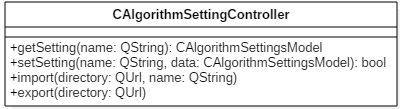
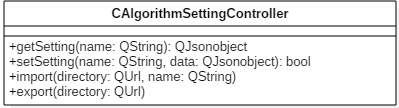
Ersetzen von CAlgotihmItemModel in CAlgorithmsettingcontroller  durch QJsonobject ersetzt

Changed region(s): [[0.0, 0.0, 1.0, 0.9722]]

diff --git a/doc/Entwurf/include/einstellungen.tex b/doc/Entwurf/include/einstellungen.tex
@@ -9,8 +9,8 @@ Alle Klassen, die für die Funktionen benötigt werden, ohne spezifische Impleme
 \includegraphics[scale=1, resolution=100]{CAlgorithmSettingController}\\
 Verwaltet die Einstellungen der Algorithmen.
 \beginMembers
-\newMember{{getSetting}}{QString name}{CAlgorithmItemModel}{Gibt die aktuellen Parameter des Algorithmus "name" als ItemModel zurück.}
-\newMember{{setSetting}}{QString name, CAlgorithmItemModel data}{bool}{Setzt die Parameter des Algorithmus "name"  gemäß dem ItemModel "data". true, falls erfolgreich, sonst false}
+\newMember{{getSetting}}{QString name}{QJsonobject}{Gibt die aktuellen Parameter des Algorithmus "name" als QJsonobject zurück.}
+\newMember{{setSetting}}{QString name, QJsonobject data}{bool}{Setzt die Parameter des Algorithmus "name"  gemäß dem QJsonobject "data". true, falls erfolgreich, sonst false}
 \newMember{{import}}{QUrl directory, QString name}{void}{Importiert die Datei "name" mit den Algorithmenparametern aus dem verzeichnis "directory".Die Datei muss im Json-Format vorliegen}
 \newMember{{export}}{QUrl directory}{void}{Exportiert die Einstellungen aller Algorithmen in das Verzeichnis "directory".}
 \closeMembers
